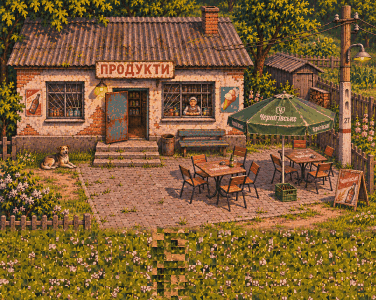
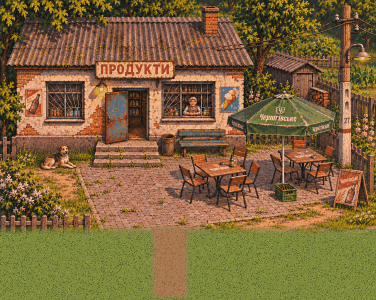
Talk to the shop from its steps and door; hand the shop redraw to the designer
- The seller and the closed door now work from anywhere on the steps.
- Plain temporary grass and path until the shop scene is redrawn.
- The handoff asks for human-sized furniture and a real path and grass.

diff --git a/js/world.js b/js/world.js
@@ -8,6 +8,7 @@ const CLUB_PARKING = { location: "club", x: 172, y: 268 };
 const SHED_DOOR = { x: 183, y: 156 };
 const CHICKEN_YARD = { left: 188, right: 253, top: 185, bottom: 244 };
 const NEAR_GARDEN = 12;
+const SHOP_STEPS = [88, 140, 166, 182]; // the shop's steps and door, plus a stride in front of them
 const FADE_TIME = 0.18;
 const DEBUG = location.search.includes("debug");
 
@@ -22,7 +23,7 @@ function here() {
 // dayOnly: goes home for the night.
 const npcs = [
   { id: "grandma", location: "yard", sprite: "grandma", x: 208, y: 205, talk: talkToGrandma, dayOnly: true, passable: true, walker: true, dir: "down", walking: false },
-  { id: "valya", location: "shop", sprite: "seller", x: 150, y: 172, inWindow: true, passable: true, talk: talkToValya, dayOnly: true },
+  { id: "valya", location: "shop", sprite: "seller", x: 127, y: 170, area: SHOP_STEPS, inWindow: true, passable: true, talk: talkToValya, dayOnly: true },
   { id: "grandpa", location: "pond", sprite: "grandpa", x: 212, y: 50, talk: talkToGrandpa, dayOnly: true },
   { id: "lads", location: "club", sprite: "ladRed", x: 120, y: 163, talk: talkToLads },
   { id: "lads", location: "club", sprite: "ladSquat", x: 192, y: 164, talk: talkToLads },
@@ -39,7 +40,7 @@ const places = {
   backpack: { id: "backpack", location: "yard", x: 197, y: 159 },
   truck: { id: "truck", location: "shop", x: 118, y: 226 },
   statue: { id: "statue", location: "club", x: 157, y: 260 },
-  shopDoor: { id: "shopDoor", location: "shop", x: 127, y: 176 },
+  shopDoor: { id: "shopDoor", location: "shop", x: 127, y: 170, area: SHOP_STEPS },
   bed: { id: "bed", location: "house", x: 41, y: 124 },
   tv: { id: "tv", location: "house", x: 103, y: 122 },
   borscht: { id: "borscht", location: "house", x: 164, y: 120 },
@@ -455,7 +456,10 @@ function nearestTarget() {
   let best = null;
   let bestScore = Infinity;
   for (const target of currentTargets()) {
-    const distance = Math.hypot(target.x - player.x, target.y - player.y);
+    // A target with an area is used from anywhere inside it, and only there.
+    const distance = target.area
+      ? (isInside(player.x, player.y, target.area) ? 0 : Infinity)
+      : Math.hypot(target.x - player.x, target.y - player.y);
     if (distance >= TALK_DISTANCE) continue;
     // Someone who walks about never gets in the way of things that stay put.
     const score = target.walker && !besideGrandma ? distance + WALKER_GIVES_WAY : distance;

diff --git a/tools/art/locations.py b/tools/art/locations.py
@@ -6,7 +6,6 @@ Coordinates in js/map.js are game pixels of these scaled pictures.
 """
 
 import os
-import random
 from PIL import Image, ImageDraw, ImageFilter
 
 from lib import Sprite
@@ -96,18 +95,6 @@ def tile(sample, width, height):
     return result
 
 
-def scatter(sample, width, height, patch=7, seed=3):
-    """Cover an area with small random pieces of a sample: no visible repeat, for grass and bare earth."""
-    rng = random.Random(seed)
-    result = Image.new("RGB", (width, height))
-    for y in range(0, height, patch):
-        for x in range(0, width, patch):
-            left = rng.randrange(sample.width - patch)
-            top = rng.randrange(sample.height - patch)
-            result.paste(sample.crop((left, top, left + patch, top + patch)), (x, y))
-    return result
-
-
 def lay_texture(picture, box, sample, margin=3, blur=2):
     """Fill box with a repeated sample, soft at the edges, so it does not look like a pasted rectangle."""
     width, height = box[2] - box[0], box[3] - box[1]
@@ -132,7 +119,6 @@ SHOP_SCENE = "incoming/village_shop_beer_garden.png"
 SHOP_SCALE = 0.26  # makes the shop door a little taller than the 44 px hero
 SHOP_SCENE_BOTTOM = 905  # the road in the scene is cut off: the shop is reached by its own path
 SHOP_SIZE = (376, 300)
-SHOP_GRASS = (250, 978, 450, 1014)  # in village_map.png, at the scale of the outdoor locations
 SHOP_PATH = (150, 226, 190, 300)
 # Night: the door shut with a padlock and the seller gone from her window. Boxes in the scene's pixels.
 SHOP_CLOSED_BOX = (400, 345, 790, 548)
@@ -148,20 +134,19 @@ def shop_scene():
     size = (round(scene.width * SHOP_SCALE), round(SHOP_SCENE_BOTTOM * SHOP_SCALE))
     top = scene.crop((0, 0, scene.width, SHOP_SCENE_BOTTOM)).resize(size, Image.Resampling.BOX)
     picture = Image.new("RGB", SHOP_SIZE)
-    village = load("village_map.png")
-    meadow = village.crop(SHOP_GRASS)
-    grass = meadow.resize((round(meadow.width * LOCATION_SCALE), round(meadow.height * LOCATION_SCALE)), Image.Resampling.BOX)
-    picture.paste(scatter(grass, SHOP_SIZE[0], SHOP_SIZE[1] - size[1] + 12), (0, size[1] - 12))
+    strip = Sprite(SHOP_SIZE[0], SHOP_SIZE[1] - size[1] + 12, "#7f8a3c")
+    strip.speckle(0, 0, strip.w, strip.h, ["#6f7c34", "#8d9745", "#5f6e30"], 0.35, 5)
+    picture.paste(strip.img.convert("RGB"), (0, size[1] - 12))
     # The scene's bottom edge fades into the grass.
     fade = Image.new("L", size, 255)
     draw_fade = ImageDraw.Draw(fade)
     for row in range(10):
         draw_fade.line((0, size[1] - 1 - row, size[0], size[1] - 1 - row), fill=round(255 * row / 10))
     picture.paste(top, (0, 0), fade)
-    bare = village.crop(PATH_SAMPLE)
-    earth = bare.resize((round(bare.width * LOCATION_SCALE), round(bare.height * LOCATION_SCALE)), Image.Resampling.BOX)
     width, height = SHOP_PATH[2] - SHOP_PATH[0], SHOP_PATH[3] - SHOP_PATH[1]
-    lay_texture(picture, SHOP_PATH, scatter(earth, width, height), 2, 1)
+    earth = Sprite(width, height, "#a8794e")
+    earth.speckle(0, 0, width, height, ["#9a6d45", "#b58a5e", "#8f6440"], 0.3, 9)
+    lay_texture(picture, SHOP_PATH, earth.img.convert("RGB"), 3, 2)
     return limit_palette(picture, 200)
 
 

diff --git a/docs/ART_HANDOFF_LOCATIONS.md b/docs/ART_HANDOFF_LOCATIONS.md
@@ -80,6 +80,8 @@ Sprites: Будинок культури as one piece, including a door that can
 
 ### 4. Shop "Продукти" (A)
 
+**To redraw, from the owner:** the proportions of this scene are off and the grass and path are placeholders. Chairs are nearly as tall as the 44 px hero when they should reach his waist, and the tables are too large with them. Keep the design, but make the furniture human-sized against the door, and draw real grass and a real earth path of some length leading up from the south into a roomier yard, with the shop further back to the north and no road in the picture.
+
 **Delivered and in the game:** `incoming/village_shop_beer_garden.png`, with its road cut off and a temporary path added, because the owner wants a path leading up into the yard, the shop set back to the north. Please redraw that south edge properly: a path of some length from the road into the yard. Still wanted as separate sprites, because they are baked into the scene: seller in the window, dog, tables and chairs (delivered in `shop_beer_garden_props.png`, not used yet), and a closed door with padlock (a rough one is painted by code).
 
 Exit: path south to the road.
